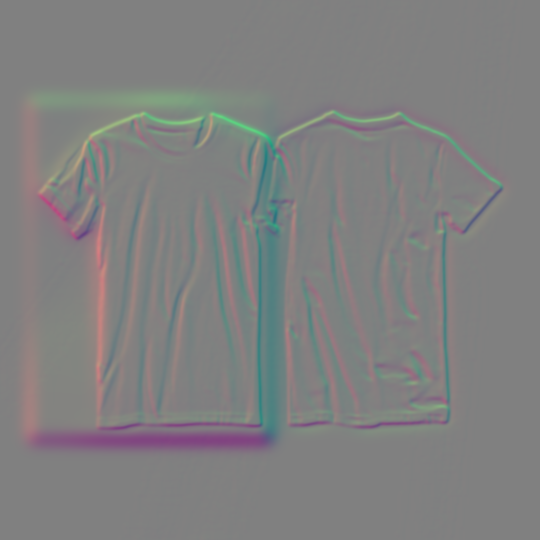
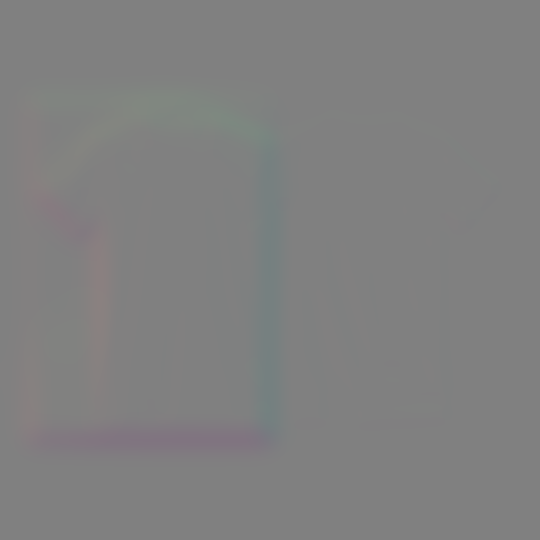
fix(preview): displacement maps no longer stretch the print (smoothed, strain capped at 2%)
Claude-Session: https://claude.ai/code/session_01FcEHh6KebAAPnR3LChut4F

diff --git a/scripts/mockup-draft.py b/scripts/mockup-draft.py
@@ -58,6 +58,8 @@ def main():
     ap.add_argument("photo"); ap.add_argument("prefix")
     ap.add_argument("--box"); ap.add_argument("--body", type=float, default=3.0)
     ap.add_argument("--folds", type=float, default=2.5)
+    ap.add_argument("--smooth", type=float, default=16, help="blur of the shift field in px")
+    ap.add_argument("--max-strain", type=float, default=0.02, dest="max_strain")
     a = ap.parse_args()
     img = cv2.imread(a.photo)
     H, W = img.shape[:2]
@@ -72,7 +74,18 @@ def main():
     rel = (cv2.GaussianBlur(L, (0, 0), 2.5) - cv2.GaussianBlur(L, (0, 0), 12)) / (cv2.GaussianBlur(L, (0, 0), 30) + 0.05)
     rel = np.clip(rel, -0.1, 0.1)
     fx, fy = to_px(*grad(cv2.GaussianBlur(rel, (0, 0), 2)), a.folds, np.ones_like(d, bool))
-    dx = np.clip(bx + fx, -7.9, 7.9); dy = np.clip(by + fy, -7.9, 7.9)
+    dx = bx + fx; dy = by + fy
+    # A print must bend, not stretch: smooth the shift field, then scale it so no
+    # part of the design is stretched or squeezed by more than --max-strain
+    # (0.02 = 2%). Folds then show mostly as shading, like real mockups.
+    dx = cv2.GaussianBlur(dx, (0, 0), a.smooth); dy = cv2.GaussianBlur(dy, (0, 0), a.smooth)
+    sxx, _ = grad(dx); _, syy = grad(dy)
+    sxy, syx = grad(dx)[1], grad(dy)[0]
+    strain = np.maximum.reduce([np.abs(sxx), np.abs(syy), np.abs(sxy) + np.abs(syx)])
+    reg = np.zeros_like(dx, bool); reg[box[1]:box[3], box[0]:box[2]] = True
+    k = min(1.0, a.max_strain / max(np.percentile(strain[reg], 99), 1e-6))
+    dx = np.clip(dx * k, -7.9, 7.9); dy = np.clip(dy * k, -7.9, 7.9)
+    print(f"strain p99 {np.percentile(strain[reg], 99):.3f} -> scaled x{k:.2f}", file=sys.stderr)
     out = np.dstack([np.full_like(dx, 128), 128 + dy * SCALE, 128 + dx * SCALE])  # BGR: B=128, G=y, R=x
     def save(name, img):
         # Smooth maps: half size is plenty and keeps downloads small (the engine

diff --git a/docs/ops/mockup-assets.md b/docs/ops/mockup-assets.md
@@ -115,3 +115,5 @@ the vendor (see `docs/ops/print-specs.md`).
   measures shading and a rough warp from the photo itself.
 
 Layer details and how to swap in a designer's files: `mockup-layer-pack.md`; what to ask the vendor to shoot: `mockup-shot-brief.md`.
+
+The drafted `displace` is smoothed and capped so no part of the print is stretched or squeezed by more than 2% (`--max-strain`): folds should read as shading, not as a warped design. A designer's `displace` should follow the same rule: gentle bends only, no visible stretching.
